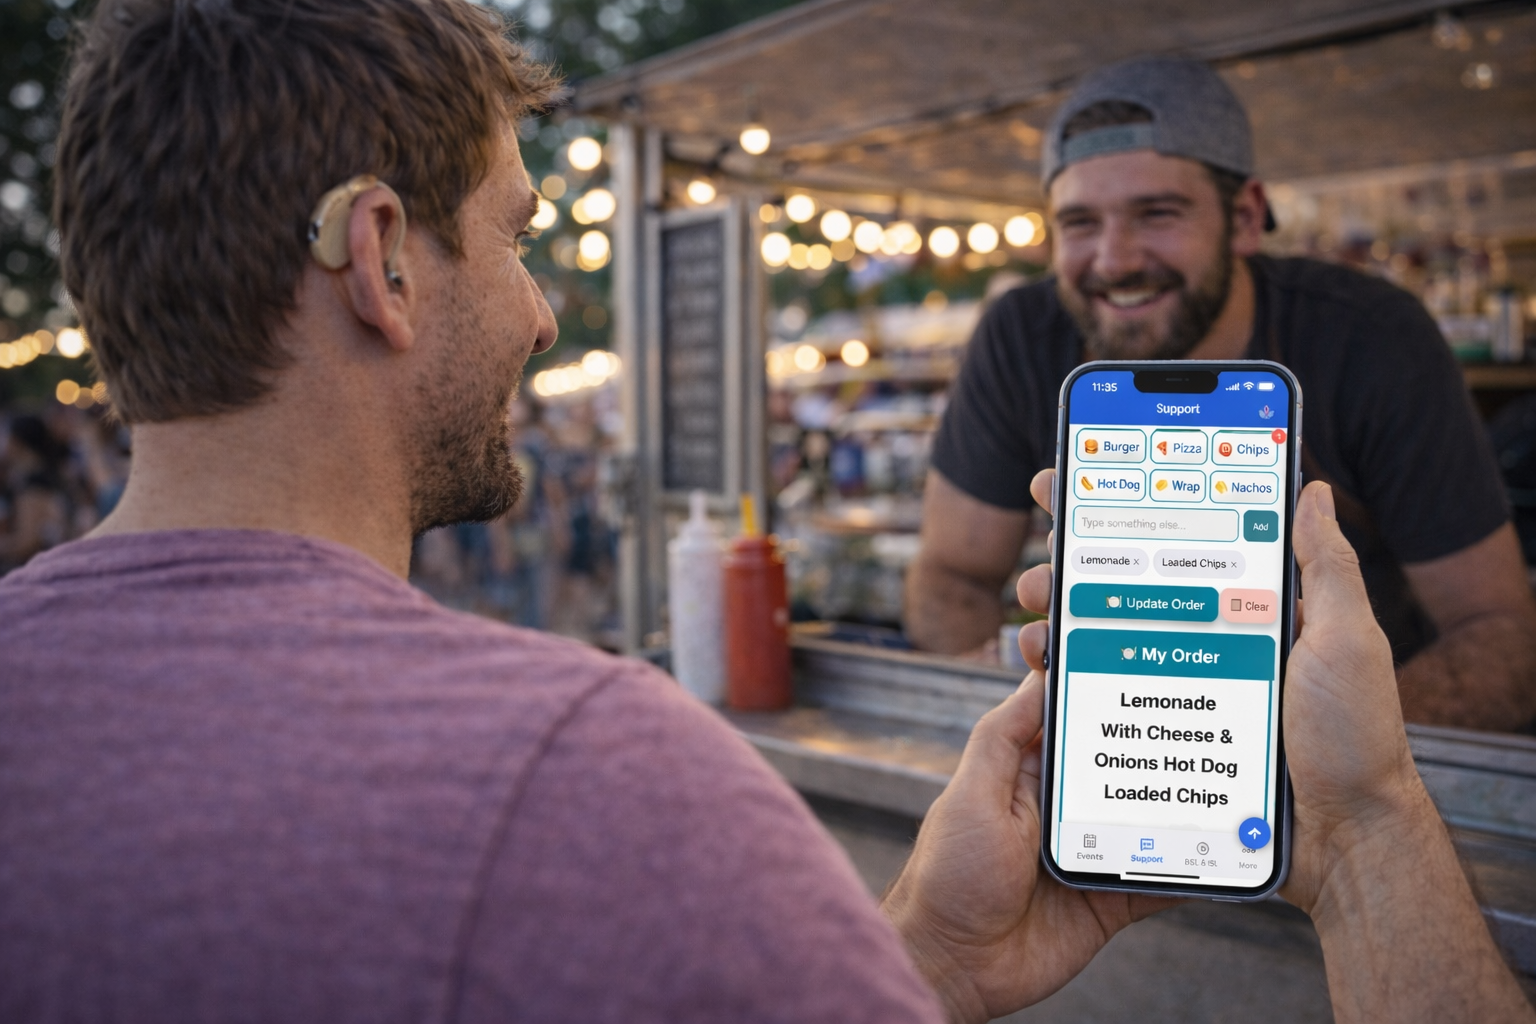
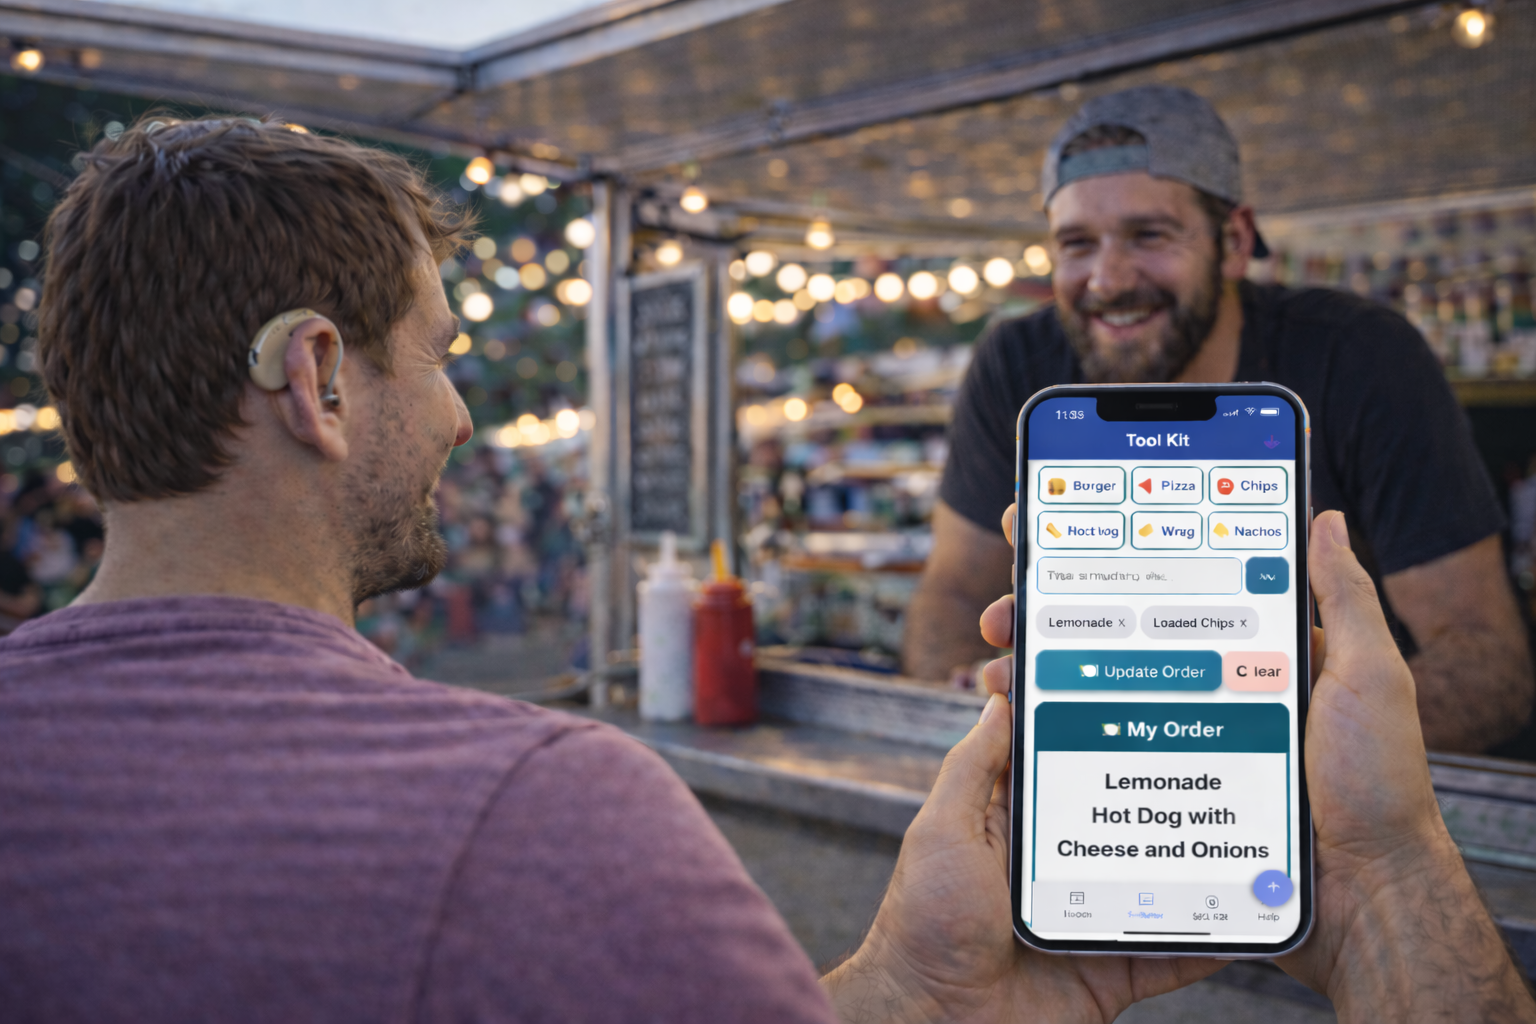
Deaf community hero: new wider AI image with food truck context

diff --git a/app/deaf-community/page.tsx b/app/deaf-community/page.tsx
@@ -78,7 +78,8 @@ export default function DeafCommunityPage() {
       <PageHero
         title="For the Deaf Community"
         subtitle="Find interpreted events. Get support at the venue. Never miss out."
-        backgroundImage="/images/festival-wide.jpg"
+        backgroundImage="/images/deaf-app-user.png"
+        imagePosition="center 25%"
       />
 
       {/* ─── The PI Events App — carousel first ──────────── */}
